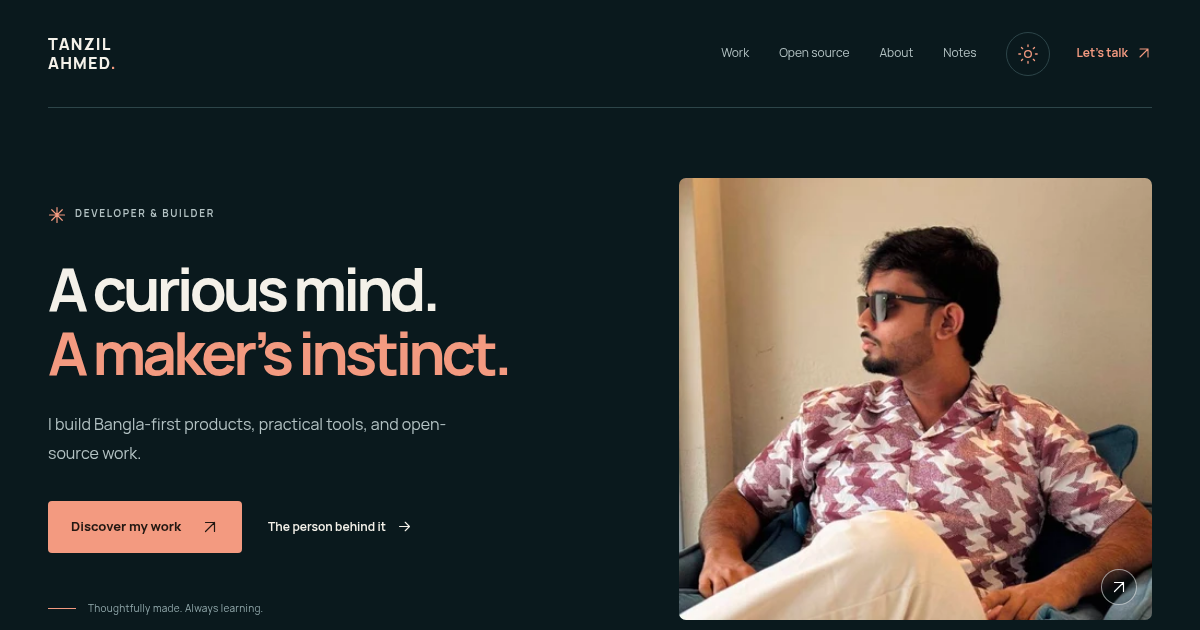
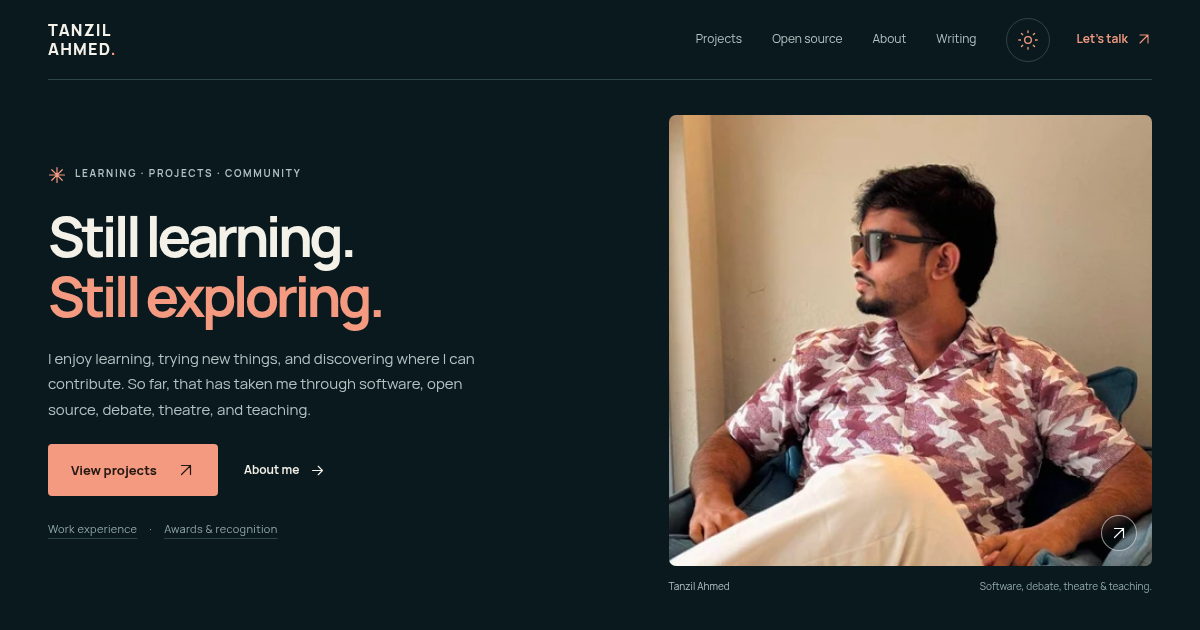
Clarify profile, recognition and Tabbycat website contribution

diff --git a/src/styles/global.css b/src/styles/global.css
@@ -100,7 +100,9 @@ main:focus { outline: none; }
 .hero-intro { margin-top: 25px; max-width: 440px; font-size: 16px; color: var(--muted); line-height: 1.85; }
 .hero-actions { display: flex; flex-wrap: wrap; align-items: center; gap: 26px; margin-top: 32px; }
 .hero-actions .text-link { color: var(--text); font-size: 12px; }
-.hero-footnote { display: flex; align-items: center; gap: 12px; color: var(--quiet); font-size: 10px; letter-spacing: .03em; margin-top: 47px; }
+.hero-footnote { display: flex; flex-wrap: wrap; align-items: center; gap: 12px; color: var(--quiet); font-size: 11px; letter-spacing: .03em; margin-top: 47px; }
+.hero-footnote a { text-decoration: underline; text-decoration-color: var(--line); }
+.hero-footnote a:hover { color: var(--accent); }
 .footnote-line { width: 28px; height: 1px; background: var(--accent); }
 .portrait-wrap { position: relative; border-radius: 7px; overflow: hidden; aspect-ratio: 1.07; background: var(--surface); }
 .portrait-wrap > img { width: 100%; height: 100%; object-fit: cover; object-position: 65% 50%; }
@@ -199,6 +201,20 @@ h2 { font-size: clamp(30px, 3.3vw, 44px); font-weight: 600; line-height: 1.18; l
 .open-section .merge-status { color: #b8dfc2; border-color: #5a8970; }
 .open-section .status-open { color: #f5ab90; border-color: #b97f69; }
 .open-section .status-closed { color: #b8c9c9; border-color: #779496; }
+.contribution-spotlight { display: grid; grid-template-columns: .85fr 1.15fr; gap: 50px; padding: 38px; margin-bottom: 46px; background: var(--surface); border: 1px solid var(--line); border-top: 3px solid var(--accent); border-radius: 5px; }
+.spotlight-heading h2 { margin: 18px 0; font-size: clamp(29px, 3vw, 40px); }
+.spotlight-heading > p:not(.eyebrow) { font-size: 14px; color: var(--muted); }
+.spotlight-heading .merge-status { margin-top: 22px; }
+.spotlight-body h3 { margin-bottom: 10px; font-size: 17px; font-weight: 650; }
+.spotlight-body p { font-size: 14px; color: var(--muted); margin-bottom: 20px; }
+.spotlight-links { display: flex; align-items: center; gap: 20px; flex-wrap: wrap; margin-top: 27px; }
+.spotlight-links .button { font-size: 12px; padding-inline: 18px; }
+.recognition-grid { display: grid; grid-template-columns: repeat(3, minmax(0, 1fr)); gap: 28px; }
+.recognition-grid article { border-top: 2px solid var(--accent); padding: 24px 0; }
+.recognition-grid .recognition-year { display: block; color: var(--accent); margin-bottom: 20px; font-size: 18px; }
+.recognition-grid h3 { font-size: 21px; line-height: 1.4; letter-spacing: -.035em; margin: 10px 0 14px; }
+.recognition-grid p:not(.eyebrow) { font-size: 13px; color: var(--muted); }
+.recognition-grid .text-link { margin-top: 18px; }
 .beyond-teaser { display: grid; grid-template-columns: 1fr 1.1fr; gap: 100px; padding-top: 90px; }
 .beyond-title > .eyebrow { margin-bottom: 18px; }
 .beyond-title h2 { font-size: 36px; margin-bottom: 26px; }
@@ -396,6 +412,11 @@ h2 { font-size: clamp(30px, 3.3vw, 44px); font-weight: 600; line-height: 1.18; l
   .theatre-art > span:not(.art-plus):not(.theatre-line) { font-size: 33px; }
 }
 @media (max-width: 799px) {
+  .contribution-spotlight { grid-template-columns: 1fr; gap: 28px; padding: 26px; }
+  .recognition-grid { grid-template-columns: 1fr; gap: 12px; }
+  .recognition-grid article { display: grid; grid-template-columns: 50px minmax(0, 1fr); gap: 20px; padding-block: 22px; }
+  .recognition-grid .recognition-year { margin: 0; font-size: 13px; }
+  .recognition-grid h3 { font-size: 20px; }
   .container { width: calc(100% - 40px); }
   .site-header { min-height: 86px; gap: 20px; }
   .desktop-nav, .header-contact { display: none; }

diff --git a/tests/browser/portfolio.spec.ts b/tests/browser/portfolio.spec.ts
@@ -61,6 +61,21 @@ test('contribution filters distinguish organization and personal-fork work', asy
   await expect(page.locator('[data-item]:visible')).toHaveCount(8);
 });
 
+test('a published website contribution has source evidence without an invented pull request', async ({ page }) => {
+  await page.goto('/');
+  await expect(page.locator('.contribution-preview').first()).toHaveAttribute('href', 'https://tabbycat-debate.org/tabbycat/');
+  await page.goto('/open-source/');
+  const spotlight = page.getByRole('region', { name: 'Tabbycat software website', exact: true });
+  await expect(spotlight.getByRole('link', { name: 'Visit website', exact: true })).toHaveAttribute('href', 'https://tabbycat-debate.org/tabbycat/');
+  await expect(spotlight.getByRole('link', { name: 'View source code', exact: true })).toHaveAttribute('href', 'https://github.com/tanzilamd/tc');
+  await expect(spotlight.getByRole('link', { name: 'Official integration', exact: true })).toHaveAttribute('href', 'https://github.com/TabbycatDebate/tabbycatdebate.github.io/commit/aff7c01965bc775d38e0575b5176753b2e812624');
+  await page.getByRole('button', { name: 'Website', exact: true }).click();
+  const row = page.locator('[data-item]:visible');
+  await expect(row).toHaveCount(1);
+  await expect(row.locator('.merge-status')).toHaveText('Published');
+  await expect(row.locator('.pr-link')).toHaveCount(0);
+});
+
 test('mobile menu supports keyboard, escape and route navigation', async ({ page }) => {
   await page.setViewportSize({ width: 390, height: 844 });
   await page.goto('/');
@@ -102,8 +117,8 @@ test('essential mobile navigation and all work remain usable without JavaScript'
   await expect(page.locator('[data-filter-bar]')).toBeHidden();
   await expect(page.locator('.fallback-nav')).toBeVisible();
   await page.locator('.fallback-nav').getByRole('link', { name: 'Open source' }).click();
-  await expect(page.locator('[data-item]:visible')).toHaveCount(11);
-  await expect(page.locator('h1')).toContainText('together');
+  await expect(page.locator('[data-item]:visible')).toHaveCount(12);
+  await expect(page.locator('h1')).toContainText('contributions');
   await context.close();
 });
 
@@ -117,8 +132,8 @@ test('blocked local storage has a working theme fallback', async ({ page }) => {
 
 test('the error page offers a route back to the work', async ({ page }) => {
   await page.goto('/404.html');
-  await expect(page.locator('h1')).toContainText('another');
+  await expect(page.locator('h1')).toContainText('found');
   await expect(page.locator('meta[name="robots"]')).toHaveAttribute('content', 'noindex');
-  await page.getByRole('link', { name: 'Explore the work', exact: true }).click();
+  await page.getByRole('link', { name: 'View projects', exact: true }).click();
   await expect(page).toHaveURL('/work/');
 });

diff --git a/src/content.config.ts b/src/content.config.ts
@@ -19,10 +19,13 @@ const contributions = defineCollection({
   loader: glob({ pattern: '**/*.md', base: './src/content/contributions' }),
   schema: z.object({
     ...common, title: z.string(), repository: z.string(), summary: z.string(),
-    type: z.enum(['Resources', 'Code', 'Infrastructure', 'Learning']), featured: z.boolean().default(false),
+    type: z.enum(['Resources', 'Code', 'Infrastructure', 'Learning', 'Website']), featured: z.boolean().default(false),
+    spotlight: z.boolean().default(false), projectUrl: z.url().optional(), evidenceUrl: z.url().optional(),
     relationship: z.enum(['Upstream', 'Organization', 'Personal fork']),
-    status: z.enum(['Merged', 'Open', 'Closed']), mergedAt: z.string().optional(),
-    url: z.url(), pr: z.number(), event: z.string().optional(),
+    status: z.enum(['Merged', 'Open', 'Closed', 'Published']), mergedAt: z.string().optional(),
+    url: z.url(), pr: z.number().int().positive().optional(), event: z.string().optional(),
+  }).refine((data) => data.status === 'Published' || data.pr !== undefined, {
+    message: 'PR entries require a PR number. Use Published for work published without a PR.', path: ['pr'],
   }),
 });
 const notes = defineCollection({
@@ -35,6 +38,6 @@ const experience = defineCollection({
 });
 const milestones = defineCollection({
   loader: glob({ pattern: '**/*.md', base: './src/content/milestones' }),
-  schema: z.object({ ...common, title: z.string(), year: z.string(), summary: z.string(), kind: z.string(), url: z.url().optional() }),
+  schema: z.object({ ...common, title: z.string(), year: z.string().optional(), summary: z.string(), kind: z.string(), url: z.url().optional(), featured: z.boolean().default(false) }),
 });
 export const collections = { projects, contributions, notes, experience, milestones };

diff --git a/docs/CONTENT-GUIDE.md b/docs/CONTENT-GUIDE.md
@@ -26,14 +26,16 @@ Categories: `Product`, `Tool`, `Experiment`, `Earlier work`. Illustration styles
 
 ## Contributions
 
-Copy the contribution template into `src/content/contributions/`. Keep one record per PR, with the original URL/number and an accurate summary.
+Copy the contribution template into `src/content/contributions/`. Keep one record per PR, with the original URL/number and an accurate summary. For a published website contribution, use `templates/website-contribution.md.example`; no PR number is needed.
 
-- `type`: `Resources`, `Code`, `Infrastructure`, `Learning`.
+- `type`: `Resources`, `Code`, `Infrastructure`, `Learning`, `Website`.
 - `relationship`: `Upstream`, `Organization`, `Personal fork`.
-- `status`: `Merged`, `Open`, `Closed` (closed without merge).
+- `status`: `Merged`, `Open`, `Closed` (closed without merge), `Published` (published work without a PR).
 - `mergedAt`: optional `YYYY-MM-DD`, only for a real merge.
 - `event`: optional confirmed event/year label.
 - `featured` and `order`: select up to three homepage highlights.
+- `spotlight: true`: প্রথম published/non-draft spotlight entry Open source page-এর উপরে বিস্তারিত দেখাবে। নিচে Markdown-এ project কী এবং নিজের contribution লিখুন।
+- `projectUrl`: optional live website link; `evidenceUrl`: optional original integration/source evidence. এগুলো spotlight-এর links হবে। Homepage-এ `projectUrl` থাকলে সেটিই খুলবে।
 
 A fork merge is not an upstream acceptance. Resource curation is not a core software feature. Do not duplicate PRs to inflate counts.
 
@@ -43,11 +45,11 @@ Copy the matching template into `src/content/notes/`, `experience/` or `mileston
 
 Notes link to the original published article and use a short excerpt, platform, tags and real date (`YYYY-MM` or `YYYY-MM-DD`). Newest dates appear first. Unpublished DEV drafts should stay draft here too; do not copy an entire external article by default.
 
-Experience and milestones appear on About automatically. Milestone filenames starting with `hacktoberfest` also appear on the Open source timeline. Preserve exact award wording: nomination is not a win, participation is not a prize, and stickers are not PR totals. Omit unknown dates. Keep private evidence outside the public content folder.
+Experience and milestones appear on About automatically. Awards/recognition and Hacktoberfest milestones have separate sections. Milestone filenames starting with `hacktoberfest` also appear on the Open source timeline. Use `featured: true` and `order` on milestones to choose up to three homepage recognition entries. Preserve exact award wording: nomination is not a win, participation is not a prize, and stickers are not PR totals. Omit unknown years. Keep private evidence outside the public content folder.
 
 ## Profile and contact
 
-Edit `src/data/profile.json`. Put only the email you want public in `email`; the Contact page then adds email and copy actions. An empty string keeps them hidden. Do not add a phone field.
+Edit `src/data/profile.json`: `siteTitle` browser/search title, `label` ছোট পরিচয়, `headline` ও `headlineAccent` hero title, `intro` পরিচিতি, আর `description` search/social description। Put only the email you want public in `email`; the Contact page then adds email and copy actions. An empty string keeps them hidden. Do not add a phone field.
 
 Replace `src/assets/tanzil.jpg` to update the photo. Astro generates local optimized WebP variants. The current image is the newly attached patterned-shirt portrait; the older picture is not bundled.
 

diff --git a/docs/RELEASE-NOTES.md b/docs/RELEASE-NOTES.md
@@ -2,7 +2,7 @@
 
 ## Included
 
-Responsive dark/light portfolio; new owner-supplied portrait; four selected projects and two earlier-work stories; eleven selected open-source records; About, Beyond code, Notes, Contact and 404; content templates; sitemap/metadata; self-hosted fonts; optimized images; GitHub Pages workflow; build, authoring, privacy/link and browser/accessibility checks.
+Responsive dark/light portfolio; new owner-supplied portrait; four selected projects and two earlier-work stories; twelve selected open-source records; About, Activities, Writing, Contact and 404; content templates; sitemap/metadata; self-hosted fonts; optimized images; GitHub Pages workflow; build, authoring, privacy/link and browser/accessibility checks.
 
 ## Editorial decisions
 
@@ -10,7 +10,9 @@ Responsive dark/light portfolio; new owner-supplied portrait; four selected proj
 - Public email is unset until the owner chooses it. Contact uses LinkedIn/GitHub/DEV. No pretend contact form or unapproved CV is shown.
 - Experience is historical and no unconfirmed current dates/title were added.
 - The owner confirmed Completionist / three milestones. A public badge URL can be added later. The sticker collection is not displayed without a confirmed platform/source.
-- Upstream, organization and personal-fork work are separate. Exact Tabbycat website/translation credit was not verified, so it is not labelled as a verified upstream merge.
+- The introduction presents learning and exploration across several interests. Plain section headings and specific experience replace the earlier metaphor-heavy copy.
+- Awards and nomination are listed separately from open-source completion/participation milestones. Debate results, volunteer recognition and activity details come from the owner-supplied background document; missing years are omitted. No original source document is published.
+- Tabbycat website authorship is now supported by `tanzilamd/tc`, its integrated page’s “Designed by Tanzil Ahmed” credit, and upstream commit `aff7c01965bc775d38e0575b5176753b2e812624` adding that repository at `/tabbycat/`. It is featured as published website work, without inventing a merged PR. Translation work remains unverified and is not claimed. The separate container workflow retains its personal-fork label.
 - Project covers are illustrations, not product screenshots. External app uptime and live AI operation are not certified by portfolio tests.
 - ScopeProof links to the exact DEV article found in its source. Choreseed's unpublished article is excluded and its paused public live AI state is stated. AI assistance is credited in the relevant project stories.
 - LinkedIn/Facebook page content was blocked during research; links are retained where appropriate without inventing extra profile facts.

diff --git a/docs/VERIFICATION.md b/docs/VERIFICATION.md
@@ -3,17 +3,17 @@
 Verified October 22, 2026. The checks below cover the production build; deployment verification is recorded in the Publication section. A restored new cloud task has not been independently tested.
 
 - Frozen dependency reinstall: `npm ci` passed.
-- `npm run check`: 22 files, zero errors, warnings or hints.
+- `npm run check`: 23 files, zero errors, warnings or hints.
 - `npm run build`: 14 static HTML pages plus sitemap and local assets.
 - `npm test`: 4 generated-link, metadata, private-data and destination-safety checks passed.
 - `npm run test:authoring`: temporary project/image/contribution generation, homepage selection, category/status display, sitemap and draft exclusion passed; fixtures removed and original site rebuilt.
-- `npm run test:browser`: 26 tests passed. Includes both themes, WCAG A/AA automated checks on representative pages, mobile open-menu accessibility, keyboard/Escape navigation, shareable filters, back navigation, theme persistence, blocked storage, no-JavaScript navigation, 404 recovery and overflow checks at 360/390/768/1024/1440 pixels.
+- `npm run test:browser`: 27 tests passed. Includes both themes, WCAG A/AA automated checks on representative pages, mobile open-menu accessibility, keyboard/Escape navigation, shareable filters, back navigation, theme persistence, blocked storage, no-JavaScript navigation, 404 recovery and overflow checks at 360/390/768/1024/1440 pixels. A published website contribution is checked for live-site/source/integration destinations and absence of a fabricated PR number; personal-fork infrastructure work retains its separate label.
 - `npm audit --omit=dev --audit-level=moderate`: zero reported production vulnerabilities.
 - `git diff --check`: passed.
 
 ## Lighthouse
 
-Mobile lab scores on the production preview:
+Earlier mobile lab scores on the production preview, before the profile/recognition content revision (not rerun for that revision):
 
 - performance: 97
 - accessibility: 100

diff --git a/src/content/contributions/tabbycat-website.md b/src/content/contributions/tabbycat-website.md
@@ -1,0 +1,24 @@
+---
+{
+  "title": "Tabbycat software website",
+  "repository": "TabbycatDebate/tabbycatdebate.github.io",
+  "summary": "Designed and built the software website for Tabbycat, an open-source debate tournament platform.",
+  "type": "Website",
+  "relationship": "Upstream",
+  "status": "Published",
+  "url": "https://github.com/tanzilamd/tc",
+  "projectUrl": "https://tabbycat-debate.org/tabbycat/",
+  "evidenceUrl": "https://github.com/TabbycatDebate/tabbycatdebate.github.io/commit/aff7c01965bc775d38e0575b5176753b2e812624",
+  "featured": true,
+  "spotlight": true,
+  "order": 0
+}
+---
+
+### What is Tabbycat?
+Tabbycat helps organizers run debating tournaments: matching teams for rounds, assigning judges, collecting results, and publishing standings. It supports British Parliamentary and several two-team debate formats.
+
+### My contribution
+I designed and developed the Tabbycat software website in 2022. The Tabbycat Debate Association included my implementation in its official website, and the page credits “Designed by Tanzil Ahmed.”
+
+The links below show the published website, my source code, and the change that added it to the official website repository.

diff --git a/README.md b/README.md
@@ -34,6 +34,8 @@ Copy a template and follow [the content guide](docs/CONTENT-GUIDE.md). No compon
 
 The first four published projects with `featured: true`, sorted by `order`, appear on Home. Current priority: Tuktak, ScopeProof, EngJatra, Choreseed. Cargotab and Tanzilbot remain in Earlier work. Up to three featured contributions appear on Home. Drafts are excluded from generated pages and sitemap.
 
+The homepage introduces learning and exploration across several interests. Selected recognition uses `featured: true` in `src/content/milestones/`; all recognition and work experience appear on About. Published website contributions can omit a PR number and use the website contribution template. Tabbycat’s website work is featured on Home and explained at the top of Open source.
+
 ## Publish
 
 The GitHub Pages workflow checks PRs and prepares deployment on pushes to `master` or a manual run. Select **GitHub Actions** in repository Settings → Pages first. Offscript is merged into `master`. New content commits to `master` go through the same checks and deployment workflow.

diff --git a/src/content/milestones/hacktoberfest-2021.md b/src/content/milestones/hacktoberfest-2021.md
@@ -1,11 +1,11 @@
 ---
 {
-  "title": "Open-source, one resource at a time",
+  "title": "Hacktoberfest 2021 participation",
   "year": "2021",
-  "summary": "Five merged course-resource contributions carrying the hacktoberfest-accepted label.",
-  "kind": "Participation",
+  "summary": "Contributed five course resources to Tech Diary’s awesome-courses repository. All five were merged and labelled hacktoberfest-accepted.",
+  "kind": "Open source · Participation",
   "url": "https://github.com/techdiary-dev/awesome-courses/pulls?q=is%3Apr+state%3Aclosed+author%3Atanzilamd",
-  "order": 2
+  "order": 7
 }
 ---
 

diff --git a/src/content/milestones/tech-diary-2021.md b/src/content/milestones/tech-diary-2021.md
@@ -1,10 +1,11 @@
 ---
 {
-  "title": "Tech Diary Developer Article Contest",
+  "title": "Tech Diary Developer Article Contest — Champion",
   "year": "2021",
-  "summary": "Champion in the developer article contest, bringing technical learning into writing.",
-  "kind": "Recognition",
-  "order": 4
+  "summary": "Won the national developer article contest for technical writing.",
+  "kind": "National · Technical writing",
+  "featured": true,
+  "order": 2
 }
 ---
 

diff --git a/src/content/milestones/peace-prize-2025.md b/src/content/milestones/peace-prize-2025.md
@@ -2,9 +2,10 @@
 {
   "title": "International Children’s Peace Prize nominee",
   "year": "2025",
-  "summary": "Nominated for work connecting children’s rights and technology education.",
-  "kind": "Nomination",
-  "order": 3
+  "summary": "Nominated for work empowering girls through technology education.",
+  "kind": "International · Nomination",
+  "featured": true,
+  "order": 1
 }
 ---
 

diff --git a/src/content/milestones/hacktoberfest-2026.md b/src/content/milestones/hacktoberfest-2026.md
@@ -2,9 +2,10 @@
 {
   "title": "Hacktoberfest Completionist",
   "year": "2026",
-  "summary": "Completed all three milestones in this year’s Hacktoberfest.",
-  "kind": "Milestone",
-  "order": 1
+  "summary": "Earned Completionist recognition by completing all three Hacktoberfest milestones.",
+  "kind": "Open source · Completion",
+  "featured": true,
+  "order": 6
 }
 ---
 
